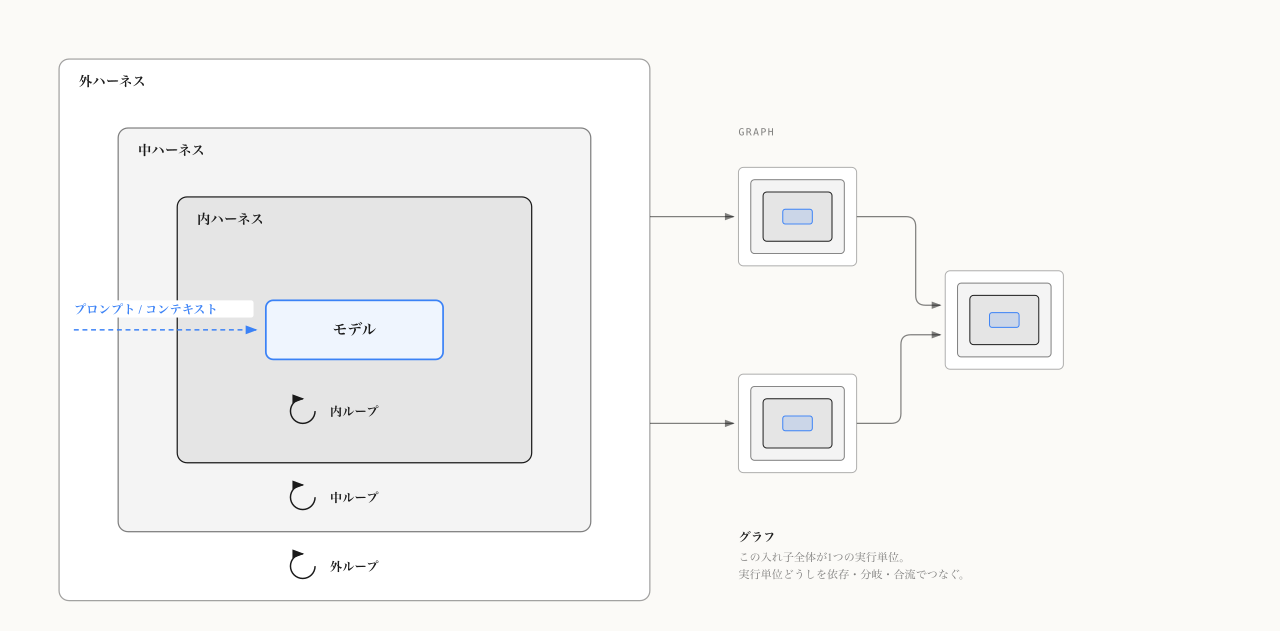
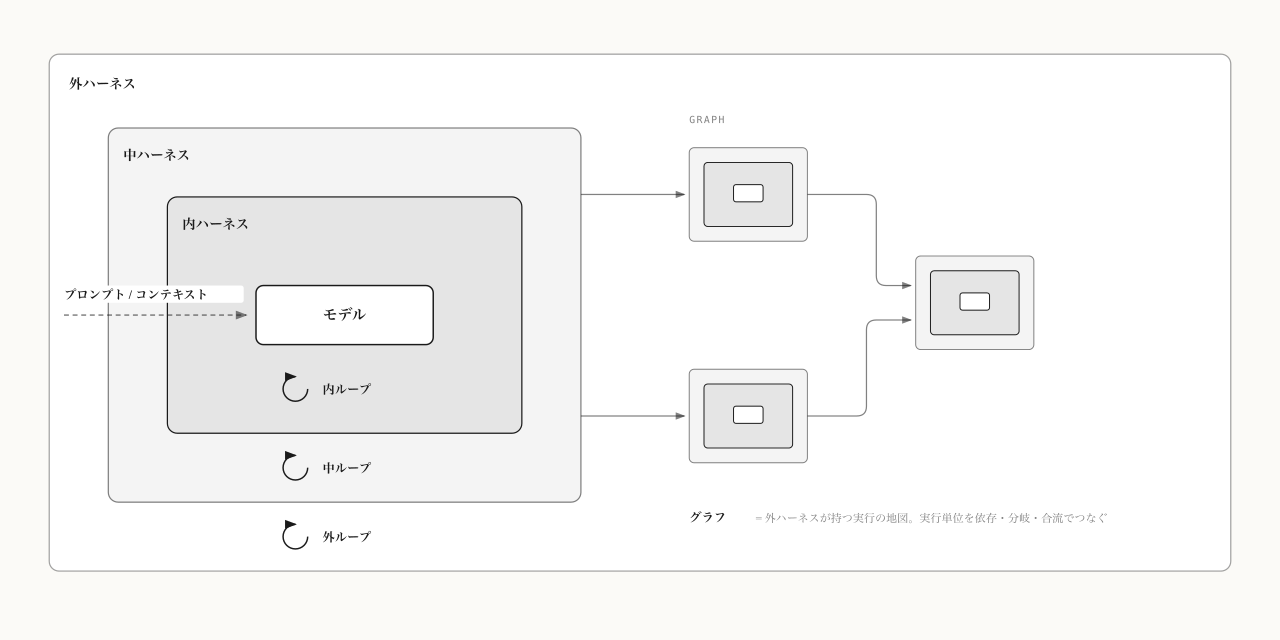
chore

diff --git a/articles/llm-control-layers-taxonomy_20260818.md b/articles/llm-control-layers-taxonomy_20260818.md
@@ -44,8 +44,8 @@ AIエージェントの記事を読むと「◯◯エンジニアリング」が
 
 先に地図を示します。以降の章で、この図の各要素を順に説明します。
 
-![制御の3階層とグラフ。モデルを内・中・外のハーネスが入れ子に包み、各層の間でループが回る。右側では入れ子全体を1つの実行単位として、複数の単位が分岐と合流でつながる](/images/llm-control-layers-taxonomy_20260818/overview.png)
-*モデルを内・中・外のハーネスが包み、各層の間でループが回る。右側は、この入れ子全体を1つの実行単位としてつないだグラフ。*
+![制御の3階層とグラフ。1つの外ハーネスの中に複数の実行単位があり、各実行単位はモデルを内ハーネスと中ハーネスが包んだもの。層と層の間でループが回り、実行単位どうしは分岐と合流でつながる](/images/llm-control-layers-taxonomy_20260818/overview.png)
+*1つの外ハーネスが複数の実行単位（中＋内＋モデル）を運行する。層と層の間でループが回り、実行単位どうしのつながりがグラフを成す。*
 
 図の要素は次のとおりです。
 
@@ -56,7 +56,7 @@ AIエージェントの記事を読むと「◯◯エンジニアリング」が
 | **外ハーネス** | 起動、成否判定、再試行、承認の基盤。エージェントの外にあります |
 | **内・中・外ループ** | 層と層の**間**で回る反復。内ループはモデルと内ハーネスの往復、中ループは内ハーネスと中ハーネスの間のゴール判定と再指示、外ループは中ハーネスと外ハーネスの間の起動と終了コード判定です |
 | **プロンプト / コンテキスト** | 外ハーネスからモデルまでを貫いて、最終的にモデルへ入るもの |
-| **グラフ** | この入れ子全体を1つの実行単位として、複数の単位を依存・分岐・合流でつないだもの。Graph Engineering の領分です |
+| **グラフ** | **外ハーネスが持つ実行の地図。**実行単位（中＋内＋モデル）を依存・分岐・合流でつなぎます。グラフは外ハーネスの外にあるのではなく、外ハーネスが運行するものです。Graph Engineering の領分です |
 
 読み方は2つです。
 
